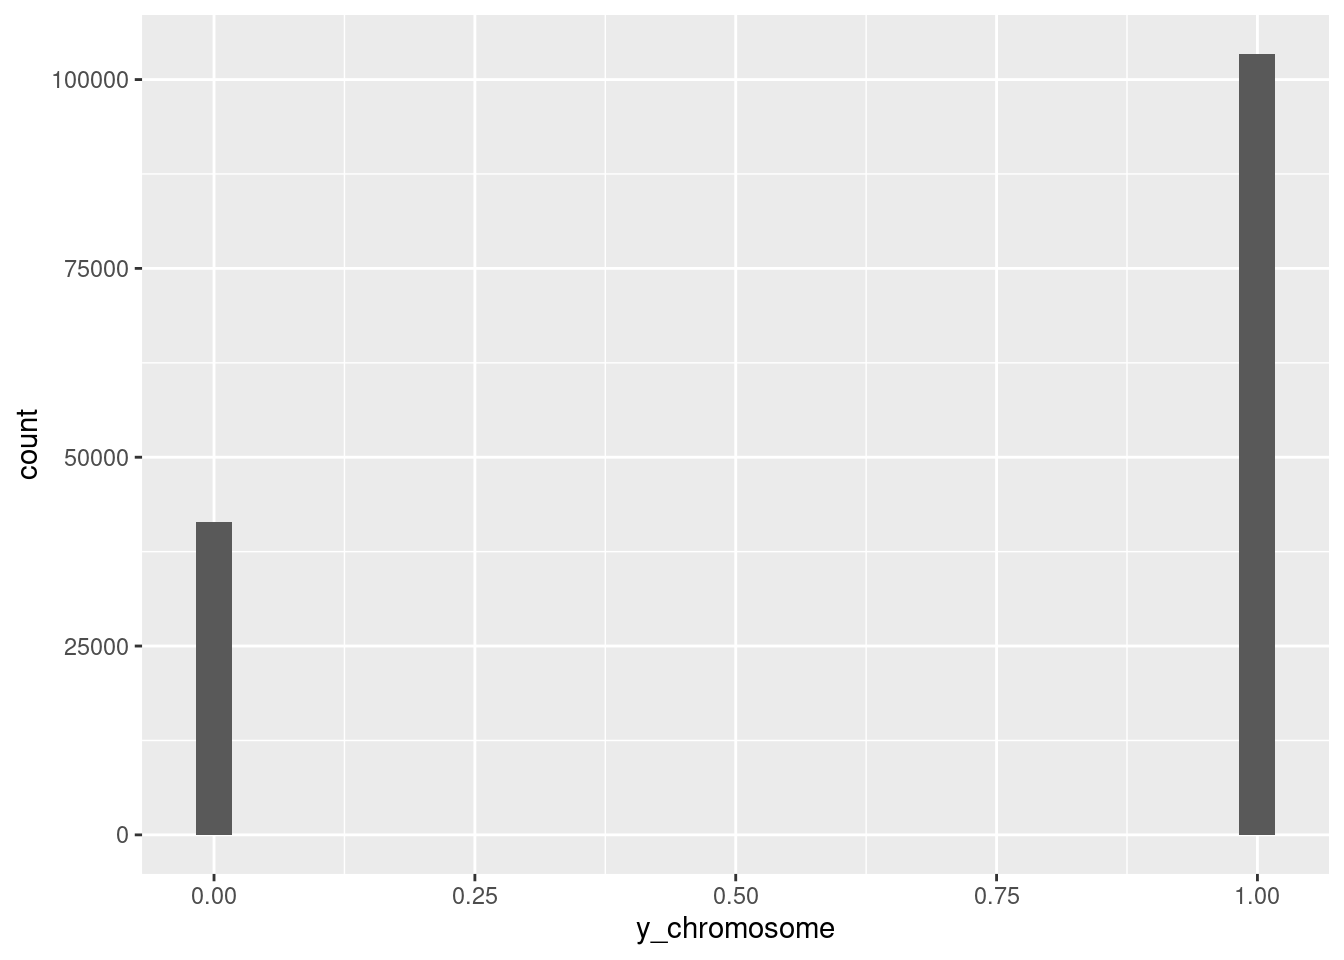
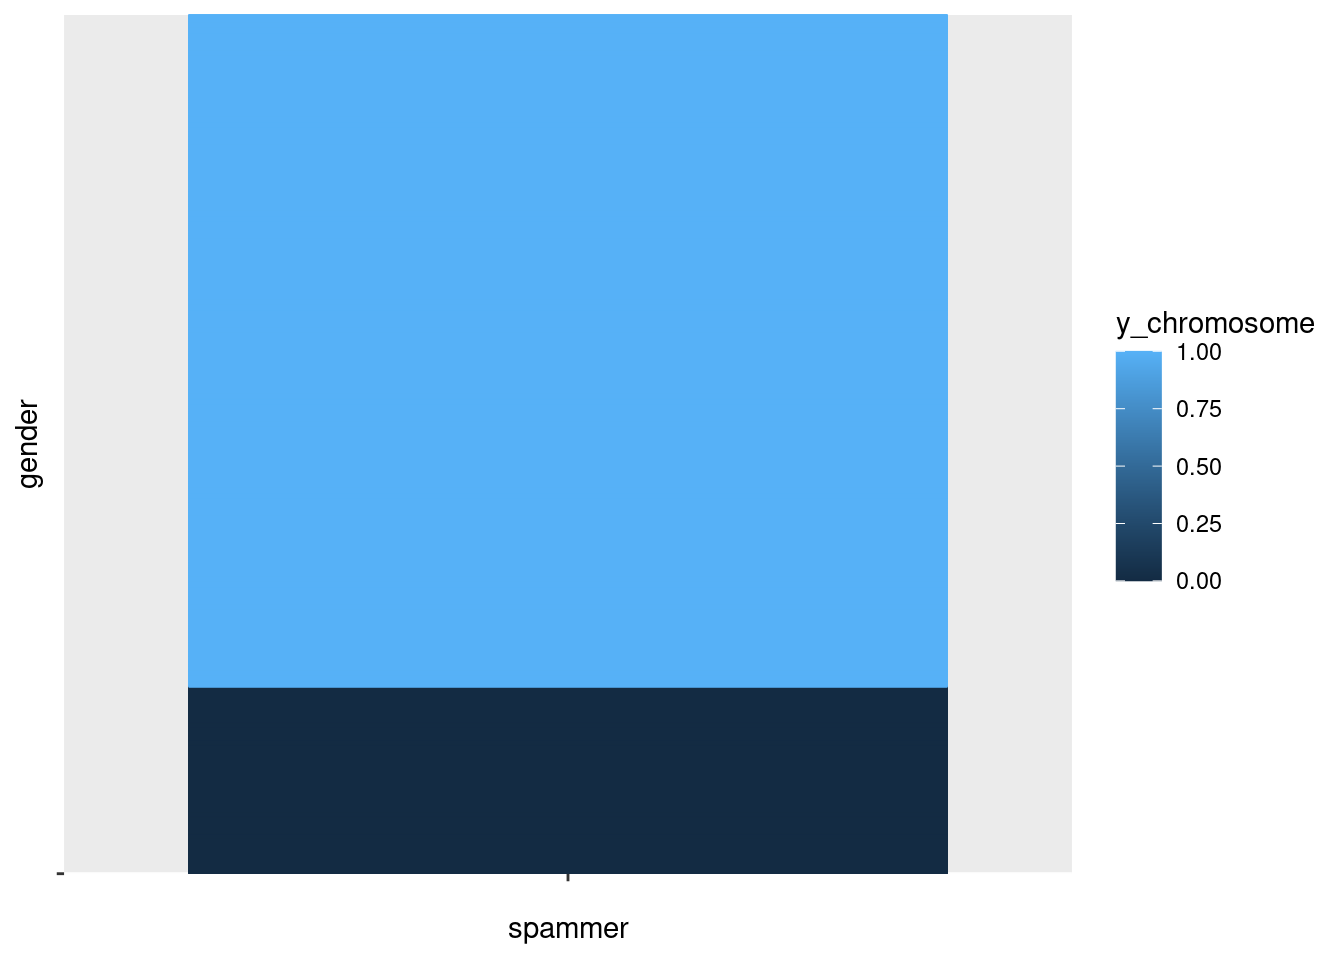
eeee

diff --git a/docs/tt1.html b/docs/tt1.html
@@ -7,7 +7,7 @@
 <meta name="viewport" content="width=device-width, initial-scale=1.0, user-scalable=yes">
 
 
-<title>tt1 – danieljwei.github.io</title>
+<title>tt1 – haiiii :3</title>
 <style>
 /* Default styles provided by pandoc.
 ** See https://pandoc.org/MANUAL.html#variables-for-html for config info.
@@ -118,7 +118,7 @@ pre > code.sourceCode > span > a:first-child::before { text-decoration: underlin
       <div class="navbar-container container-fluid">
       <div class="navbar-brand-container mx-auto">
     <a class="navbar-brand" href="./index.html">
-    <span class="navbar-title">danieljwei.github.io</span>
+    <span class="navbar-title">haiiii :3</span>
     </a>
   </div>
             <div id="quarto-search" class="" title="Search"></div>
@@ -173,7 +173,7 @@ pre > code.sourceCode > span > a:first-child::before { text-decoration: underlin
 ℹ Use the conflicted package (&lt;http://conflicted.r-lib.org/&gt;) to force all conflicts to become errors</code></pre>
 </div>
 </div>
-<p>The question I’m asking: Were men or women more likely to submit spam? I’ll be creating a barplot</p>
+<p>The question I’m asking: Were more spam responses men or women? I’ll be creating a histogram that looks to see what proportions of the responses with spam probability over 1 were men or women.</p>
 <div class="cell">
 <div class="code-copy-outer-scaffold"><div class="sourceCode cell-code" id="cb3"><pre class="sourceCode r code-with-copy"><code class="sourceCode r"><span id="cb3-1"><a href="#cb3-1" aria-hidden="true" tabindex="-1"></a>answers <span class="ot">&lt;-</span> readr<span class="sc">::</span><span class="fu">read_csv</span>(<span class="st">'https://raw.githubusercontent.com/rfordatascience/tidytuesday/main/data/2025/2025-07-08/answers.csv'</span>)</span></code></pre></div><button title="Copy to Clipboard" class="code-copy-button"><i class="bi"></i></button></div>
 <div class="cell-output cell-output-stderr">
@@ -212,16 +212,10 @@ dbl (4): user_id, y_chromosome, colorblind, spam_prob
 <span id="cb9-2"><a href="#cb9-2" aria-hidden="true" tabindex="-1"></a><span class="co">#View(color_ranks)</span></span>
 <span id="cb9-3"><a href="#cb9-3" aria-hidden="true" tabindex="-1"></a><span class="co">#View(users)</span></span>
 <span id="cb9-4"><a href="#cb9-4" aria-hidden="true" tabindex="-1"></a></span>
-<span id="cb9-5"><a href="#cb9-5" aria-hidden="true" tabindex="-1"></a>users <span class="sc">|&gt;</span> <span class="fu">group_by</span>(spam_prob) <span class="sc">|&gt;</span> <span class="fu">ggplot</span>(</span>
-<span id="cb9-6"><a href="#cb9-6" aria-hidden="true" tabindex="-1"></a>     <span class="fu">aes</span>(<span class="at">x =</span> y_chromosome)) <span class="sc">+</span> </span>
-<span id="cb9-7"><a href="#cb9-7" aria-hidden="true" tabindex="-1"></a>    <span class="fu">geom_histogram</span>()</span></code></pre></div><button title="Copy to Clipboard" class="code-copy-button"><i class="bi"></i></button></div>
-<div class="cell-output cell-output-stderr">
-<pre><code>`stat_bin()` using `bins = 30`. Pick better value `binwidth`.</code></pre>
-</div>
-<div class="cell-output cell-output-stderr">
-<pre><code>Warning: Removed 7507 rows containing non-finite outside the scale range
-(`stat_bin()`).</code></pre>
-</div>
+<span id="cb9-5"><a href="#cb9-5" aria-hidden="true" tabindex="-1"></a>users <span class="sc">|&gt;</span> <span class="fu">arrange</span>(y_chromosome) <span class="sc">|&gt;</span> <span class="fu">filter</span>(y_chromosome <span class="sc">&gt;=</span> <span class="dv">0</span>) <span class="sc">|&gt;</span> <span class="fu">filter</span>(spam_prob <span class="sc">&gt;</span> <span class="dv">1</span>) <span class="sc">|&gt;</span> <span class="fu">ggplot</span>(</span>
+<span id="cb9-6"><a href="#cb9-6" aria-hidden="true" tabindex="-1"></a>     <span class="fu">aes</span>(<span class="at">x =</span> <span class="st">""</span>, <span class="at">y =</span> <span class="st">""</span>, <span class="at">color =</span> y_chromosome)) <span class="sc">+</span> </span>
+<span id="cb9-7"><a href="#cb9-7" aria-hidden="true" tabindex="-1"></a>    <span class="fu">geom_col</span>() <span class="sc">+</span> </span>
+<span id="cb9-8"><a href="#cb9-8" aria-hidden="true" tabindex="-1"></a>    <span class="fu">labs</span> (<span class="at">x =</span> <span class="st">"spammer"</span>, <span class="at">y =</span> <span class="st">"gender"</span>)</span></code></pre></div><button title="Copy to Clipboard" class="code-copy-button"><i class="bi"></i></button></div>
 <div class="cell-output-display">
 <div>
 <figure class="figure">
@@ -230,6 +224,7 @@ dbl (4): user_id, y_chromosome, colorblind, spam_prob
 </div>
 </div>
 </div>
+<p>As is expected, men are more likely to spam.</p>
 
 
 

diff --git a/docs/index.html b/docs/index.html
@@ -113,7 +113,7 @@ ul.task-list li input[type="checkbox"] {
     
 <!-- main -->
 <div class="quarto-about-jolla">
-  <img src="CSC_0307.jpeg" class="about-image
+  <img src="media/CSC_0307.jpeg" class="about-image
   round " style="height: 17em; width: 17em;">
  <header id="title-block-header" class="quarto-title-block default">
 <div class="quarto-title">
